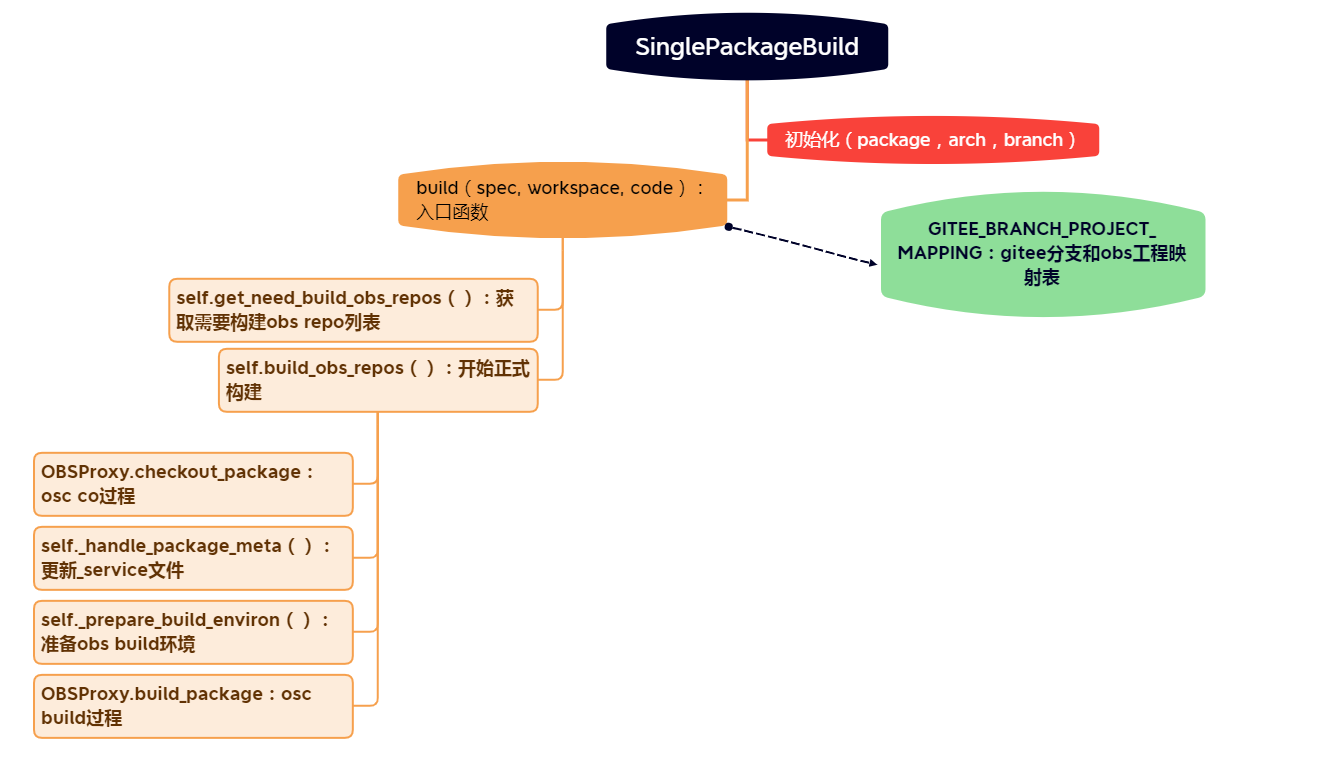
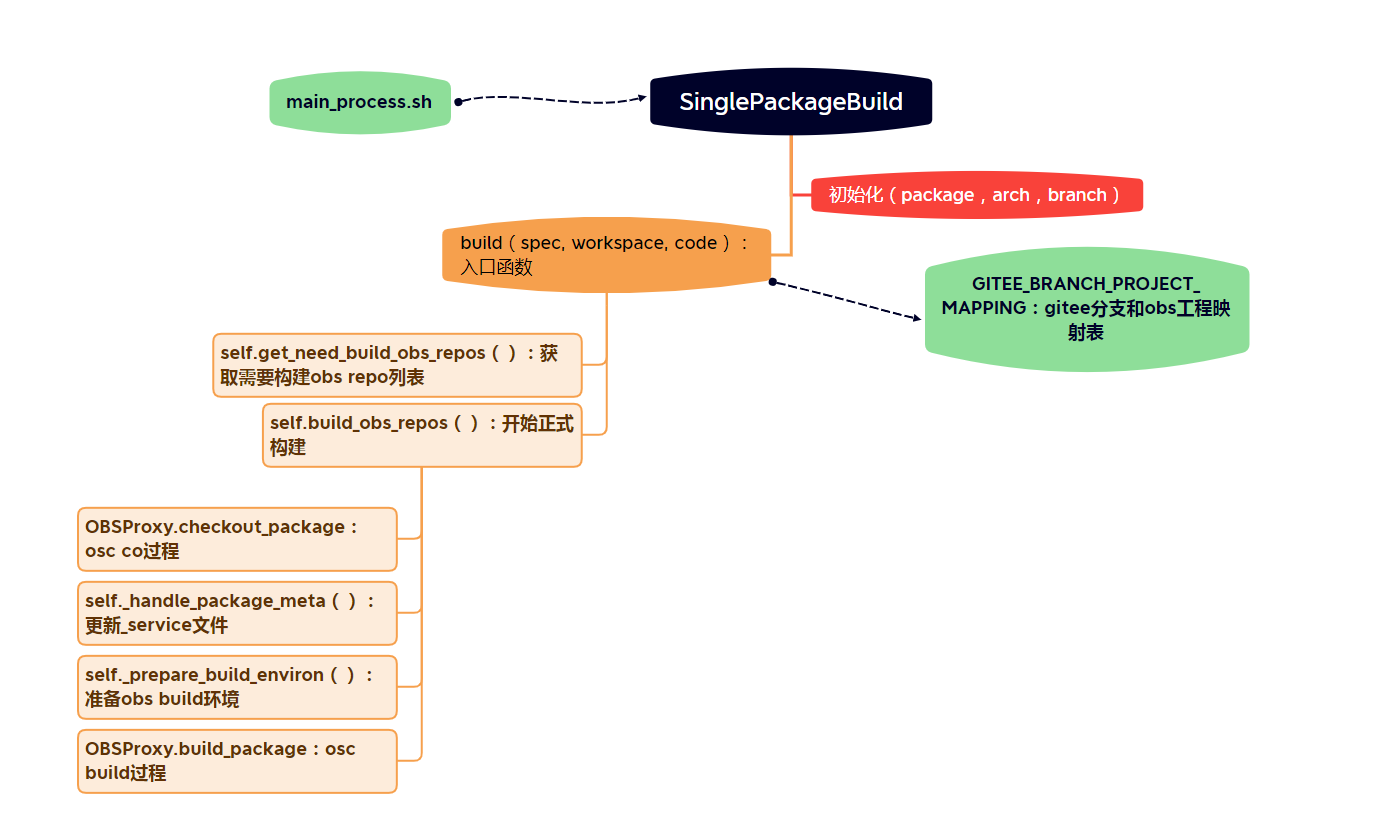
osc-build文档分享

Changed region(s): [[0.0, 0.0, 0.9325, 0.9948], [0.1865, 0.0603, 0.3419, 0.1809], [0.4041, 0.1206, 0.4352, 0.1507]]

diff --git a/doc/openeuler-jenkins代码解读.md b/doc/openeuler-jenkins代码解读.md
@@ -1,3 +1,5 @@
+
+
 # 执行流程
 
 #### ![](images/overview.png)
@@ -202,3 +204,77 @@ compare package在extra work中进行调用
 | _get_pr_changelog           | 获取更新代码的changelog内容，应承载接口变更检查原因及影响 |                                              |
 | _get_check_item_result      | 获取compare package比较结果各子项的详细信息               |                                              |
 | _result_to_table            | 获取compare package比较结果的详细信息                     |                                              |
+
+## 6 osc build
+
+![](images/osc_build.png)
+
+SinglePackageBuild在main_process.sh中进行调用
+
+| 类方法/属性              | 描述                         | 说明                                             |
+| ------------------------ | ---------------------------- | ------------------------------------------------ |
+| __init__                 | 初始化                       | SinglePackageBuild实例化对象，初始设置一些参数值 |
+| get_need_build_obs_repos | 获取需要构建obs repo列表[注] |                                                  |
+| build_obs_repos          | build                        |                                                  |
+| _handle_package_meta     | _service文件重组             |                                                  |
+| _prepare_build_environ   | 准备obs build环境            |                                                  |
+| build                    |                              | 主入口                                           |
+
+**注：**
+
+**obs_repos结构：**
+[{"repo": repo, "mpac": mpac=mpac, "state": state},{"repo": repo, "mpac": mpac=mpac, "state": state}]
+
+mpac： multibuild package
+
+**build_obs_repos 返回值意义：**
+
+1：osc co 失败
+
+2：准备obs build环境失败
+
+3：osc build失败
+
+### service文件结构说明
+
+```yaml
+<services> 1
+ <service name="MY_SCRIPT" 2 mode="MODE" 3>
+  <param name="PARAMETER1">PARAMETER1_VALUE</param> 4
+ </service>
+</services>
+
+1、_service文件的根元素。
+2、服务名称。 该服务是存储在/ usr / lib / obs / service目录中的脚本。
+3、服务模式
+4、一个或多个传递到2中定义的脚本的参数。
+```
+
+**服务模式**
+
+| Mode         | Runs remotely                                                | Runs locally               | Added File Handling                                          |
+| ------------ | ------------------------------------------------------------ | -------------------------- | ------------------------------------------------------------ |
+| Default      | After each commit                                            | Before local build         | 生成的文件以“_service：”为前缀                               |
+| `trylocal`   | Yes                                                          | Yes                        | Changes are merged into commit                               |
+| `localonly`  | No                                                           | Yes                        | Changes are merged into commit                               |
+| `serveronly` | Yes                                                          | No                         | 生成的文件以“_service：”为前缀： 当服务不可用或无法在开发人员工作站上运行时，这可能很有用。 |
+| `buildtime`  | During each build before calling the build tool (for example, rpm-build)[a] | Before each build[a]       |                                                              |
+| `manual`     | No                                                           | Only via explicit CLI call | Exists since OBS 2.11                                        |
+| `disabled`   | No                                                           | Only via explicit CLI call |                                                              |
+|              |                                                              |                            | 注：[a] A side effect is that the service package is becoming a build dependency and must be available. |
+
+注：[a] A side effect is that the service package is becoming a build dependency and must be available.
+
+**osc build 相关参数说明：**
+
+**--no-verify, --noverify** 构建包时跳过签名验证（通过PGP密钥） （在OSCRC中的全局配置：no_verify）
+
+**--noservice, --no-service**  跳过_service文件中指定的本地源服务的运行。
+
+**-M MPAC, --multibuild-package=MPAC** 构建指定的多个包
+
+**--userootforbuild** 以root身份构建。默认值是构建为非特权用户。请注意，SPEC文件中的“＃norootforbuild”在“＃norootforbuild”将使此选项无效。
+
+**--disable-debuginfo** 禁用DebugInfo软件包的构建
+
+**--disable-cpio-bulk-download** 禁用从API中将下载的包作为CPIO存档 （cpio是个归档工具）
